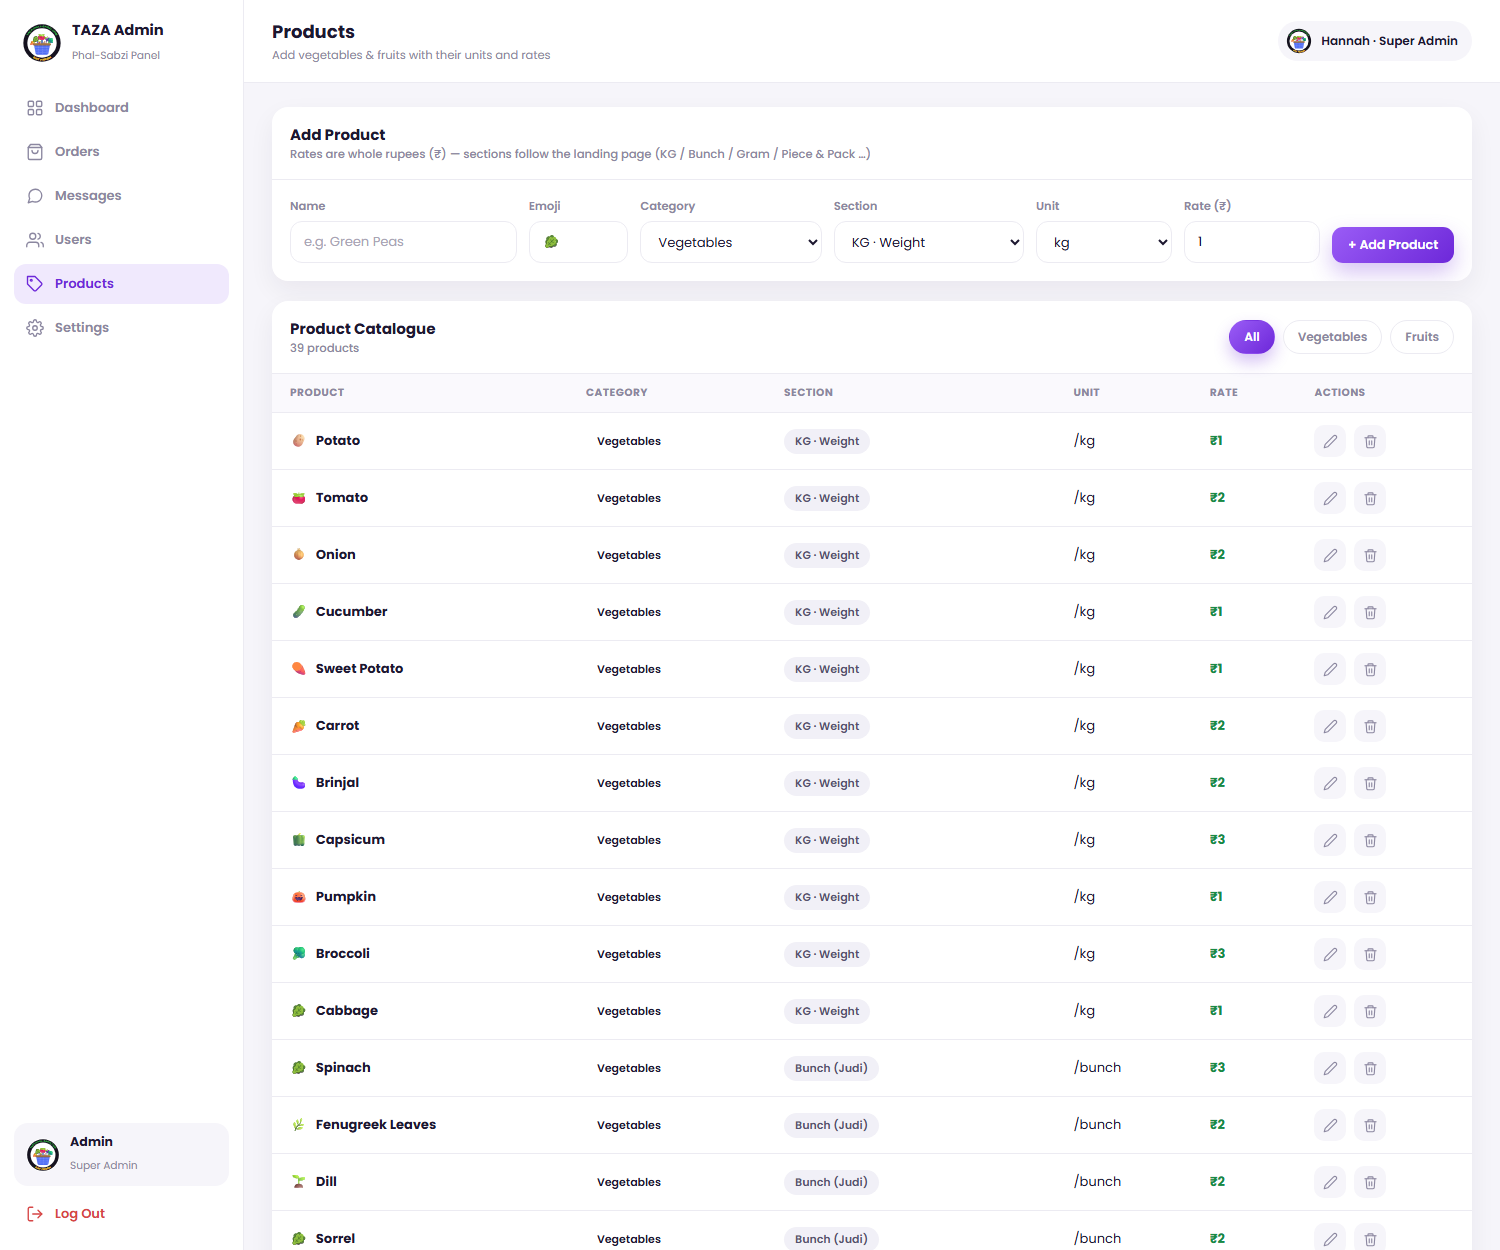
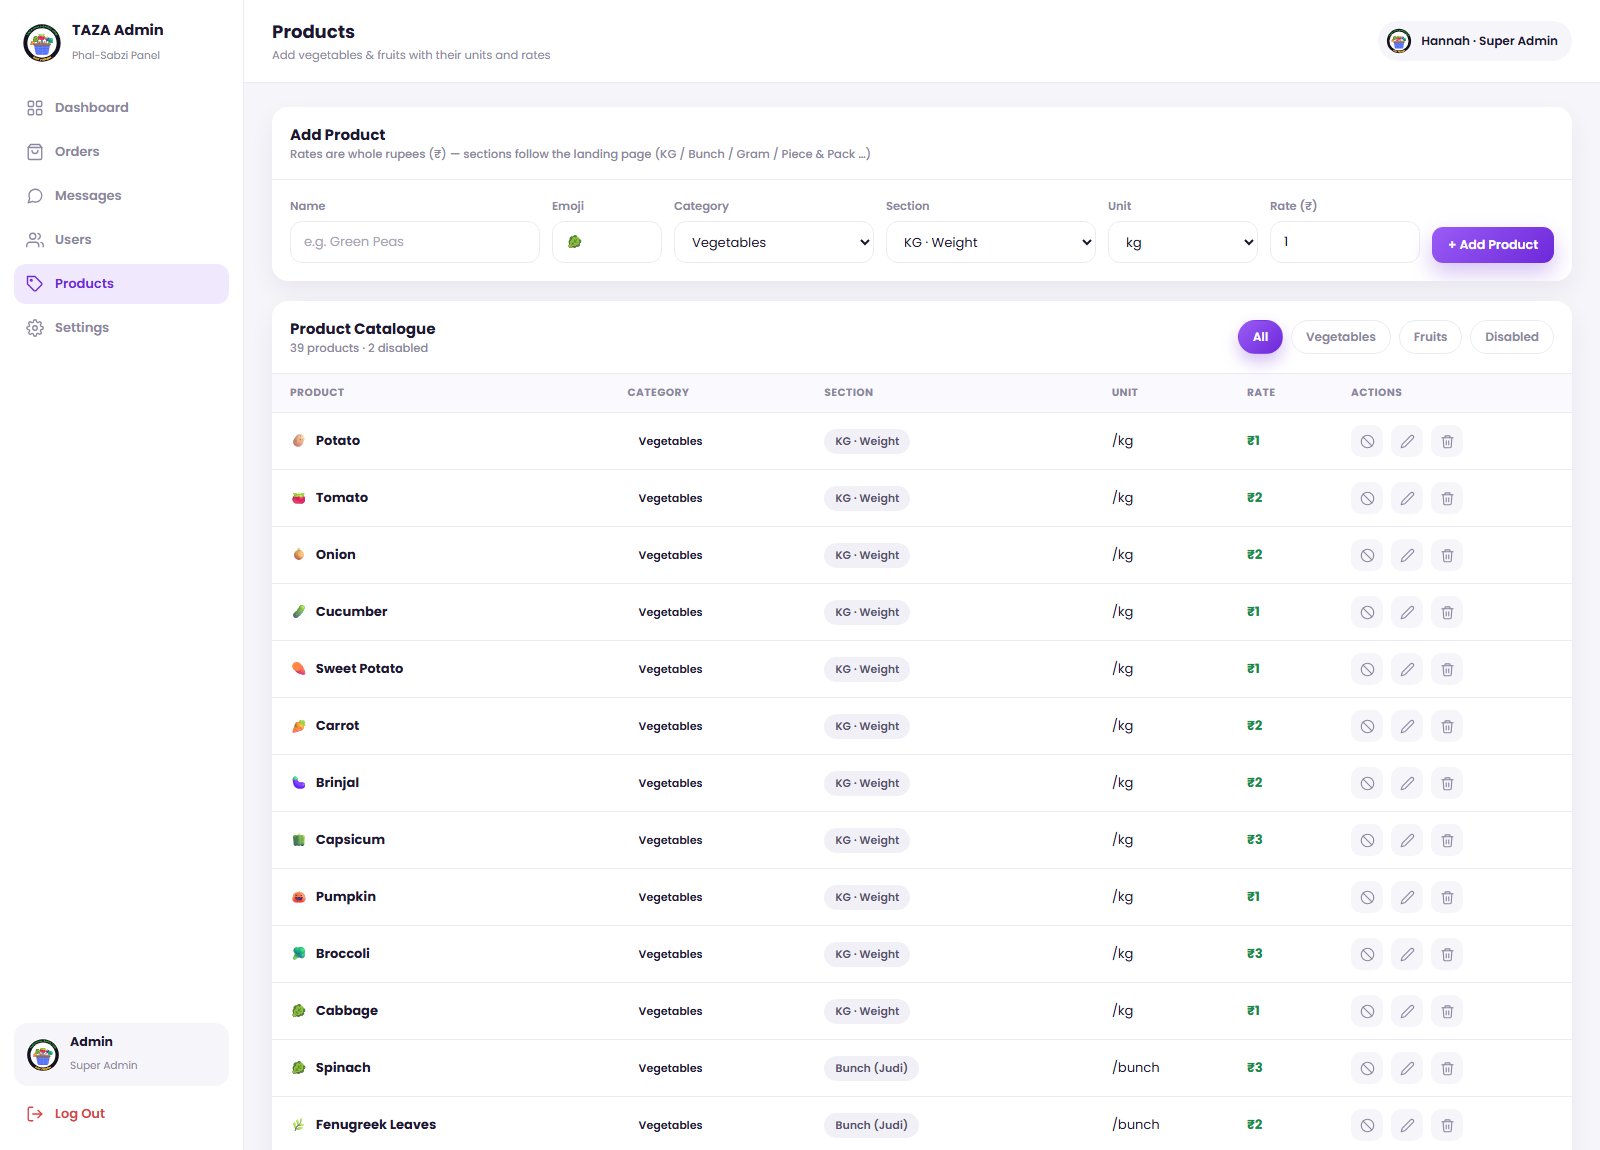
Admin: enable/disable any product at runtime (Disabled filter, hidden from shop)

diff --git a/admin/admin.js b/admin/admin.js
@@ -170,7 +170,7 @@
       { name: 'Curry Leaves', emoji: '🍃', cat: 'veg', unit: '100 g', rate: 1, section: 'gram' },
       { name: 'Green Chilli', emoji: '🌶', cat: 'veg', unit: '100 g', rate: 1, section: 'gram' },
       { name: 'Sweet Corn', emoji: '🌽', cat: 'veg', unit: 'piece', rate: 1, section: 'piece_pack' },
-      { name: 'Mushroom', emoji: '🍄', cat: 'veg', unit: 'pack', rate: 4, section: 'piece_pack' },
+      { name: 'Mushroom', emoji: '🍄', cat: 'veg', unit: 'pack', rate: 4, section: 'piece_pack', active: 0 },
       { name: 'Mango', emoji: '🥭', cat: 'fruits', unit: 'kg', rate: 4, section: 'kg' },
       { name: 'Grapes', emoji: '🍇', cat: 'fruits', unit: 'kg', rate: 3, section: 'kg' },
       { name: 'Orange', emoji: '🍊', cat: 'fruits', unit: 'kg', rate: 2, section: 'kg' },
@@ -183,7 +183,7 @@
       { name: 'Pineapple', emoji: '🍍', cat: 'fruits', unit: 'piece', rate: 2, section: 'dozen_piece' },
       { name: 'Kiwi', emoji: '🥝', cat: 'fruits', unit: 'piece', rate: 1, section: 'dozen_piece' },
       { name: 'Coconut', emoji: '🥥', cat: 'fruits', unit: 'piece', rate: 2, section: 'dozen_piece' },
-      { name: 'Avocado', emoji: '🥑', cat: 'fruits', unit: 'piece', rate: 2, section: 'dozen_piece' },
+      { name: 'Avocado', emoji: '🥑', cat: 'fruits', unit: 'piece', rate: 2, section: 'dozen_piece', active: 0 },
       { name: 'Apple', emoji: '🍎', cat: 'fruits', unit: 'pack', rate: 2, section: 'pack' },
       { name: 'Strawberry', emoji: '🍓', cat: 'fruits', unit: 'pack', rate: 4, section: 'pack' },
       { name: 'Cherry', emoji: '🍒', cat: 'fruits', unit: 'pack', rate: 3, section: 'pack' }
@@ -682,11 +682,16 @@
   function renderProducts() {
     var tbody = $('#productsBody');
     if (!tbody) return;
-    var list = state.products.filter(function (p) { return productFilter === 'All' || p.cat === productFilter; });
+    var list = state.products.filter(function (p) {
+      if (productFilter === 'All') return true;
+      if (productFilter === 'Disabled') return Number(p.active) === 0;
+      return p.cat === productFilter;
+    });
 
     tbody.innerHTML = list.map(function (p) {
       var idAttr = p.id != null ? p.id : esc(p.name);
       var editing = editingProductId != null && String(editingProductId) === String(idAttr);
+      var isActive = Number(p.active) !== 0;              /* undefined / 1 = enabled */
       var sec = p.section || sectionFromUnit(p);
       var sectionCell = editing
         ? '<select class="input section-edit" style="height:34px">' + sectionOptionsHtml(p.cat, sec) + '</select>'
@@ -700,14 +705,17 @@
       var rateCell = editing
         ? '<input class="input rate-edit-rate" type="number" min="1" step="1" value="' + p.rate + '" style="height:34px;width:80px" />'
         : money(p.rate);
+      var toggleBtn = '<button class="iconbtn' + (isActive ? '' : ' ok') + '" data-act="toggle-prod" data-id="' + idAttr + '" data-name="' + esc(p.name) + '" title="' + (isActive ? 'Disable — hide from customers' : 'Enable — show to customers again') + '">' + (isActive ? ICONS.ban : ICONS.check) + '</button>';
       var actions = editing
         ? '<button class="btn success small" data-act="edit-save" data-id="' + idAttr + '" data-name="' + esc(p.name) + '">Save</button>' +
           '<button class="btn ghost small" data-act="edit-cancel">Cancel</button>'
-        : '<button class="iconbtn" data-act="edit-prod" data-id="' + idAttr + '" title="Edit">' + ICONS.pencil + '</button>' +
+        : toggleBtn +
+          '<button class="iconbtn" data-act="edit-prod" data-id="' + idAttr + '" title="Edit">' + ICONS.pencil + '</button>' +
           '<button class="iconbtn danger" data-act="del-prod" data-id="' + idAttr + '" data-name="' + esc(p.name) + '" title="Delete">' + ICONS.trash + '</button>';
 
-      return '<tr>' +
-        '<td><span class="p-emoji">' + esc(p.emoji) + '</span><b>' + esc(p.name) + '</b></td>' +
+      return '<tr' + (isActive ? '' : ' class="row-disabled"') + '>' +
+        '<td><span class="p-emoji">' + esc(p.emoji) + '</span><b>' + esc(p.name) + '</b>' +
+        (isActive ? '' : ' <span class="pill suspended">Disabled</span>') + '</td>' +
         '<td><span class="pill ' + (p.cat === 'veg' ? 'cat-veg' : 'cat-fruits') + '">' + (p.cat === 'veg' ? 'Vegetables' : 'Fruits') + '</span></td>' +
         '<td>' + sectionCell + '</td>' +
         '<td>' + unitCell + '</td>' +
@@ -717,12 +725,15 @@
     }).join('') || '<tr><td colspan="6" class="muted" style="padding:22px 18px">No products in this filter.</td></tr>';
 
     var countEl = $('#prodCount');
-    if (countEl) countEl.textContent = list.length + ' products';
+    if (countEl) {
+      var offCount = state.products.filter(function (p) { return Number(p.active) === 0; }).length;
+      countEl.textContent = list.length + ' products' + (productFilter !== 'Disabled' && offCount ? ' · ' + offCount + ' disabled' : '');
+    }
   }
 
   function loadProducts() {
     if (!LIVE) { renderProducts(); return Promise.resolve(); }
-    return window.TAZA.getProducts().then(function (res) {
+    return window.TAZA.adminGetProducts().then(function (res) {
       state.products = res.products || [];
       renderProducts();
     }).catch(function (err) { toast(err.message || 'Could not load products'); });
@@ -1096,6 +1107,29 @@
     if (act === 'edit-prod') { editingProductId = id; renderProducts(); return; }
     if (act === 'edit-cancel') { editingProductId = null; renderProducts(); return; }
 
+    if (act === 'toggle-prod') {
+      var prod = null;
+      var pName = btn.getAttribute('data-name');
+      state.products.forEach(function (x) {
+        var xid = x.id != null ? String(x.id) : x.name;
+        if (xid === String(id) || x.name === pName) prod = x;
+      });
+      if (!prod) return;
+      var isNowActive = Number(prod.active) !== 0;       /* undefined / 1 = enabled */
+      var nextActive = isNowActive ? 0 : 1;
+      if (LIVE) {
+        window.TAZA.adminUpdateProduct(id, { active: nextActive }).then(function () {
+          toast(prod.name + (nextActive ? ' enabled — visible to customers ✓' : ' disabled — hidden from customers ✓'));
+          loadProducts();
+        }).catch(function (err) { toast(err.message || 'Could not update the product'); });
+        return;
+      }
+      prod.active = nextActive;
+      renderProducts();
+      toast(prod.name + (nextActive ? ' enabled — visible to customers' : ' disabled — hidden from customers'));
+      return;
+    }
+
     if (act === 'edit-save') {
       var rateEl = $('.rate-edit-rate');
       var unitEl = $('.rate-edit-unit');
@@ -1181,6 +1215,15 @@
       productFilter = chip.getAttribute('data-filter');
       renderProducts();
     });
+
+    /* preview helper: ?filter=Disabled|veg|fruits activates that chip */
+    var wantedFilter = null;
+    try { wantedFilter = new URLSearchParams(location.search).get('filter'); } catch (e) { /* noop */ }
+    if (wantedFilter) {
+      $$('.chip', pf).forEach(function (c) {
+        if (c.getAttribute('data-filter') === wantedFilter) c.click();
+      });
+    }
   }
 
   /* ---------------- init ---------------- */

diff --git a/server/test-e2e.js b/server/test-e2e.js
@@ -171,6 +171,20 @@ function check(name, ok, extra) {
   const payOrd = (payRead.data.orders || []).find(function (x) { return x.id === o.id; });
   check('admin marks payment collected (paid flag)', payTrue.status === 200 && !!payOrd && Number(payOrd.paid) === 1, payOrd ? 'paid=' + payOrd.paid : 'order not found');
 
+  /* 13. runtime enable/disable of any product (admin) */
+  const adminProds = await req('GET', '/api/admin/products', null, adminToken);
+  const anyProd = (adminProds.data.products || [])[0];
+  check('admin product list includes the active flag', adminProds.status === 200 && !!anyProd && anyProd.active !== undefined, anyProd ? anyProd.name + ' active=' + anyProd.active : 'empty');
+  const pubBefore = await req('GET', '/api/products');
+  const wasVisible = (pubBefore.data.products || []).some(function (p) { return p.id === anyProd.id; });
+  const disableRes = await req('PATCH', '/api/admin/products/' + anyProd.id, { active: false }, adminToken);
+  const pubOff = await req('GET', '/api/products');
+  const nowHidden = !(pubOff.data.products || []).some(function (p) { return p.id === anyProd.id; });
+  const enableRes = await req('PATCH', '/api/admin/products/' + anyProd.id, { active: true }, adminToken);
+  const pubOn = await req('GET', '/api/products');
+  const backVisible = (pubOn.data.products || []).some(function (p) { return p.id === anyProd.id; });
+  check('disable hides a product from the shop; enable brings it back', wasVisible && disableRes.status === 200 && nowHidden && enableRes.status === 200 && backVisible, anyProd.name);
+
   /* summary */
   console.log('');
   console.log(results.join('\n'));

diff --git a/server/routes/admin.js b/server/routes/admin.js
@@ -81,6 +81,14 @@ router.delete('/users/:id', requireAdmin, wrap(async (req, res) => {
 const PRODUCT_SECTIONS = ['kg', 'bunch', 'gram', 'piece_pack', 'dozen_piece', 'pack'];
 const PRODUCT_UNITS = ['kg', 'bunch', 'pack', 'piece', 'dozen', '100 g'];
 
+/* GET /api/admin/products — full catalogue incl. disabled items (admin only) */
+router.get('/products', requireAdmin, wrap(async (req, res) => {
+  const [products] = await db.query(
+    'SELECT id, name, emoji, cat, section, unit, rate, active FROM products ORDER BY cat ASC, name ASC'
+  );
+  res.json({ products: products });
+}));
+
 router.post('/products', requireAdmin, wrap(async (req, res) => {
   const b = req.body || {};
   const name = String(b.name || '').trim();
@@ -109,7 +117,10 @@ router.patch('/products/:id', requireAdmin, wrap(async (req, res) => {
   const unit = PRODUCT_UNITS.includes(b.unit) ? b.unit : null;
   const section = PRODUCT_SECTIONS.includes(b.section) ? b.section : null;
   const emoji = b.emoji ? String(b.emoji).trim().slice(0, 8) : null;
-  const active = b.active === 0 || b.active === 1 ? b.active : null;
+  /* accepts true/false, 0/1 or '0'/'1' — disable/enable a product at runtime */
+  const active = (b.active === true || b.active === 1 || b.active === '1') ? 1
+    : (b.active === false || b.active === 0 || b.active === '0') ? 0
+    : null;
   if (rate === null && unit === null && section === null && emoji === null && active === null) {
     return res.status(400).json({ error: 'Nothing to update' });
   }

diff --git a/templates/api.js b/templates/api.js
@@ -86,6 +86,7 @@
     adminUpdateUser: function (id, payload) { return request('PATCH', '/admin/users/' + id, payload); },
     adminDeleteUser: function (id) { return request('DELETE', '/admin/users/' + id); },
     adminAddProduct: function (payload) { return request('POST', '/admin/products', payload); },
+    adminGetProducts: function () { return request('GET', '/admin/products'); },
     adminUpdateProduct: function (id, payload) { return request('PATCH', '/admin/products/' + id, payload); },
     adminDeleteProduct: function (id) { return request('DELETE', '/admin/products/' + id); },
     adminProcurement: function () { return request('GET', '/admin/procurement'); },

diff --git a/admin/admin.css b/admin/admin.css
@@ -236,6 +236,13 @@ input[type='number']::-webkit-inner-spin-button { -webkit-appearance: none; marg
 .actions-cell .btn + .btn,
 .actions-cell .iconbtn + .iconbtn { margin-left: 8px; }
 
+/* disabled products (runtime enable/disable) */
+.row-disabled td { opacity: 0.55; }
+.row-disabled td.actions-cell { opacity: 1; }
+.row-disabled td .pill.suspended { opacity: 1; }
+.iconbtn.ok { color: var(--green-strong); }
+.iconbtn.ok:hover { background: var(--green-soft); color: var(--green-strong); }
+
 /* bulk accept button next to the order filters */
 .head-actions { display: flex; align-items: center; gap: 10px; flex-wrap: wrap; justify-content: flex-end; }
 

diff --git a/admin/products.html b/admin/products.html
@@ -80,6 +80,7 @@
               <button class="chip active" data-filter="All">All</button>
               <button class="chip" data-filter="veg">Vegetables</button>
               <button class="chip" data-filter="fruits">Fruits</button>
+              <button class="chip" data-filter="Disabled">Disabled</button>
             </div>
           </div>
           <div class="table-wrap">

diff --git a/BACKEND.md b/BACKEND.md
@@ -94,7 +94,8 @@ The templates are mobile-first, so everything renders full-bleed like a native a
 | `GET /api/admin/users` | admin | list users |
 | `PATCH /api/admin/users/:id` | admin | change role / suspend |
 | `DELETE /api/admin/users/:id` | admin | delete (blocked if the user has orders) |
-| `POST/PATCH/DELETE /api/admin/products/:id?` | admin | manage catalogue |
+| `GET /api/admin/products` | admin | full catalogue incl. disabled items (with `active` flag) |
+| `POST/PATCH/DELETE /api/admin/products/:id?` | admin | manage catalogue — PATCH also enables/disables (`{ active: true/false }`) |
 | `GET /api/admin/procurement` | admin | tonight's supplier list |
 | `GET/PUT /api/admin/settings` | admin | store / slot / payment settings |
 
